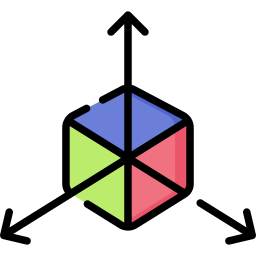
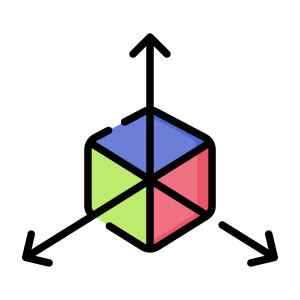
assets update and logging fix.

Changed region(s): [[0.0, 0.0312, 1.0, 0.9688]]

diff --git a/core/logging.py b/core/logging.py
@@ -28,6 +28,6 @@ def setup_logging():
 
     # Configure root logger
     logging.basicConfig(
-        level=logging.DEBUG,
+        level=logging.INFO,
         handlers=[console_handler, file_handler]
     )
